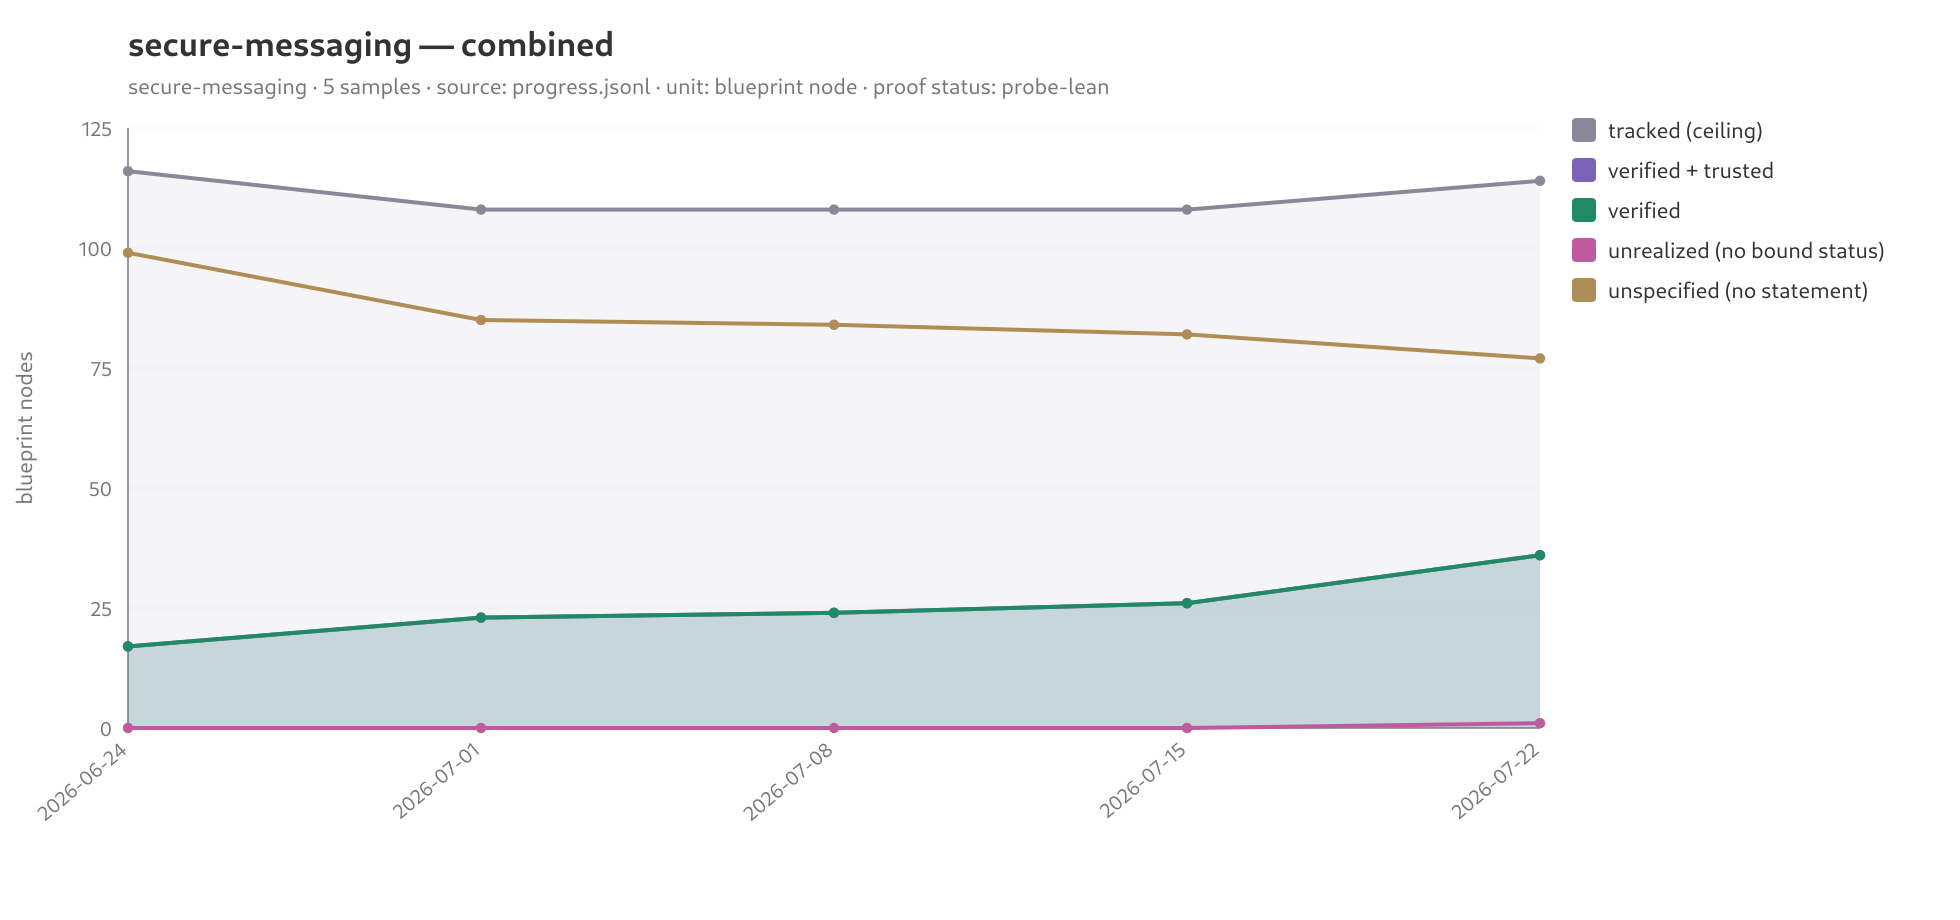
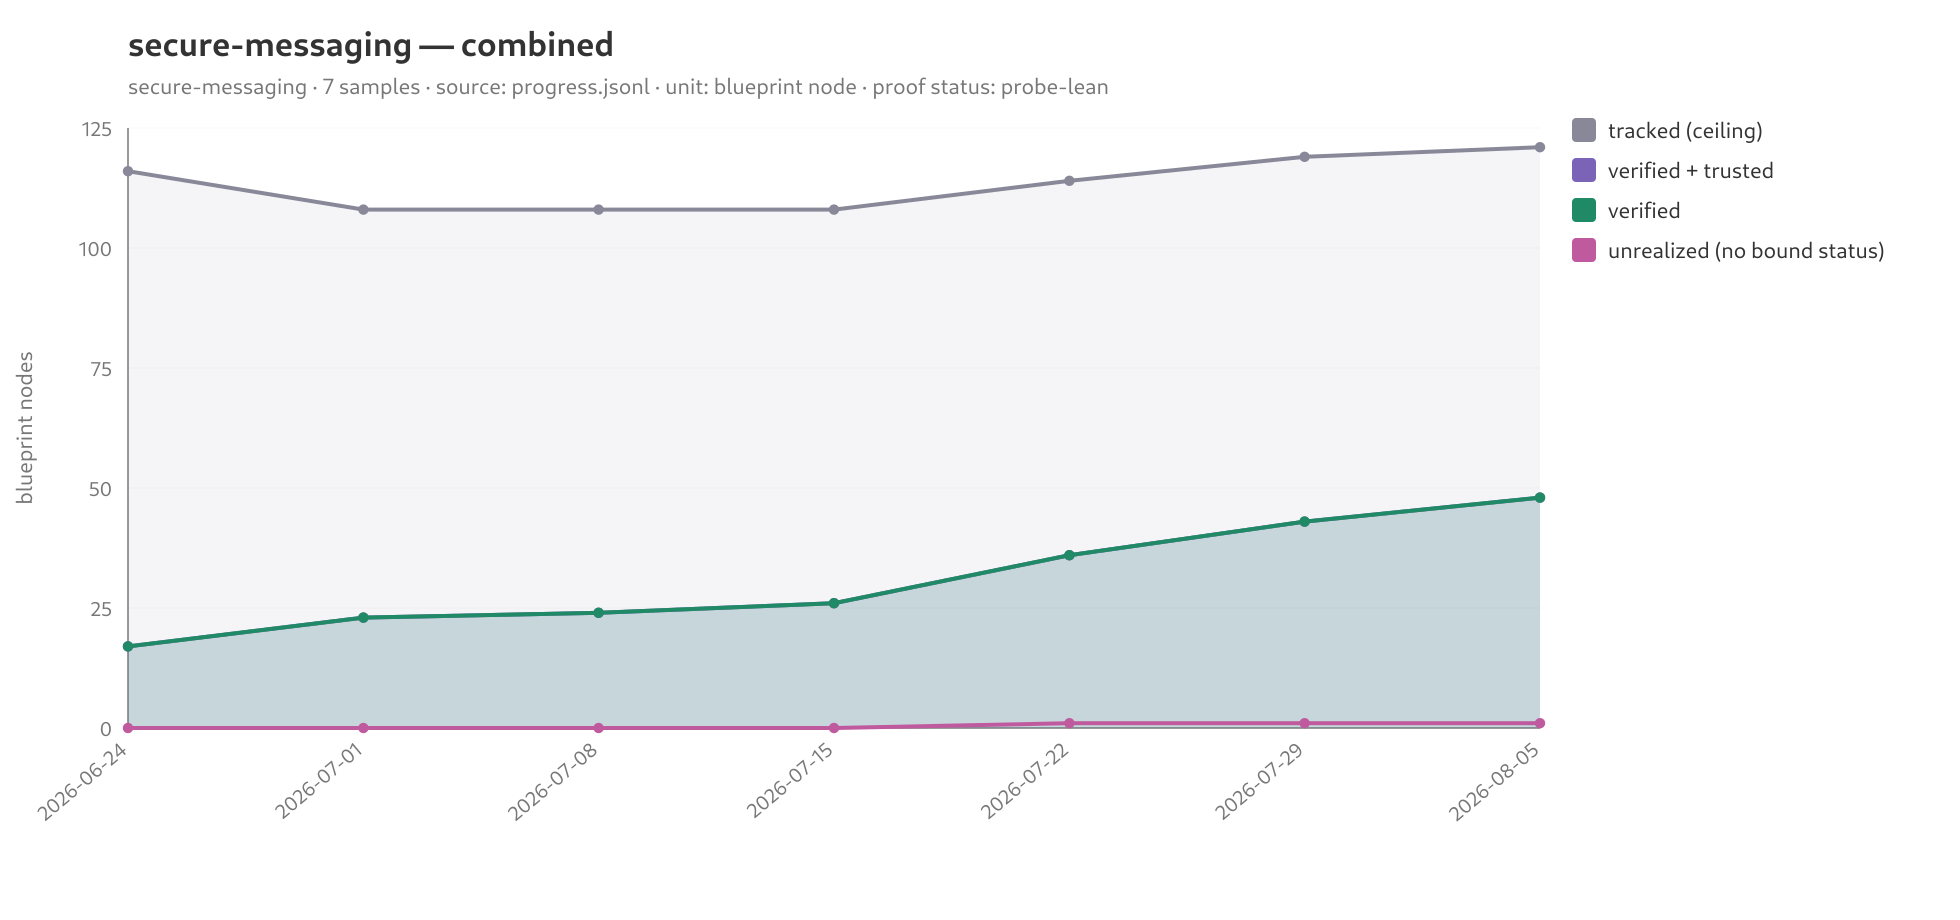
data(secure-messaging): weekly progress samples 2026-07-29 and 2026-08-05
Extend the leanblueprint burn-up series with the two commits since the
last sample (2026-07-22): 7af6862 and 300a69e. Definitions formalized
28->33->35, theorems proved 9->11->14. Regenerated burnup{,-combined}.

Also fix data/README.md: the secure-messaging series is weekly, not
monthly (the actual sample dates are Wednesday-anchored weekly), and add
a step-by-step update-progress.md runbook.

diff --git a/tools/verification-progress-history/data/secure-messaging/update-progress.md b/tools/verification-progress-history/data/secure-messaging/update-progress.md
@@ -1,0 +1,80 @@
+# Update secure-messaging progress + chart
+
+Run everything from the tool directory:
+
+```bash
+cd tools/verification-progress-history
+```
+
+Data lives in `data/secure-messaging/`. Last recorded sample: **2026-07-22**
+(`progress.jsonl`, 5 rows). Sampling re-runs the real verifier per commit, so it
+is slow (~10–13 min/commit here); plotting is free.
+
+The local checkout is `/home/lacra/git_repos/baif/secure-messaging` (used as the
+`repo` argument below). It is intentionally **not** recorded in the committed
+`data/README.md`: commit `4afe26e` scrubbed the absolute local path out of the
+snapshot because it leaked a home directory, so the committed reproducibility
+steps carry only the flags.
+
+The committed series is **weekly** (Wednesday-anchored: 2026-06-24 … 2026-07-22),
+so extend it with `--cadence weekly`. (Note: `data/README.md` says `--cadence
+monthly`; that is a stale doc — the actual data is weekly.)
+
+## Prerequisites (on PATH, pinned for the whole run)
+
+`elan`, `probe-leanblueprint`, and the `probe-lean-v<toolchain>` matching each
+sampled commit's `lean-toolchain` (probe-lean reads version-specific `.olean`s).
+If new commits bumped the Lean toolchain, that version must be present or the
+sample records `setup_failed`; add `--install-probe-lean` to auto-fetch it.
+
+## 1. Add new data points
+
+`--resume` upserts by commit SHA and skips anything already recorded, so a
+week with no new commit adds nothing:
+
+```bash
+python3 progress_history.py /home/lacra/git_repos/baif/secure-messaging \
+  --pipeline leanblueprint --cadence weekly \
+  --verso-render-cmd scripts/render-docs-site.sh \
+  --since 2026-07-22 --resume \
+  --work-clone /tmp/vph-secure-messaging \
+  --dep-cache-dir /tmp/vph-depcache \
+  --sample-timeout 3600
+```
+
+- `--dry-run` first to list the commits it would sample.
+- `--dep-cache-dir` snapshots the compiled dep build per (toolchain, manifest)
+  and restores it in seconds on later samples — keep it persistent to make
+  reruns cheap. A run crossing a toolchain change forces a full rebuild.
+- To refresh just the latest point instead of walking the cadence grid, drop
+  `--since/--resume` and pass `--commit HEAD` (repeatable; always re-runs).
+- `--retry-failed` (with `--resume`) redoes any past non-`ok` sample.
+
+`progress.jsonl` and `progress.csv` are rewritten in place.
+
+## 2. Regenerate the charts
+
+Free, no verifier. Reproduces the committed SVG/PNG from the JSONL:
+
+```bash
+# Two-panel (Definitions, Theorems)
+python3 plot_progress.py data/secure-messaging/progress.jsonl --png
+
+# Single combined panel (pooled nodes, probe-lean proof status)
+python3 plot_progress.py data/secure-messaging/progress.jsonl --combined --png
+```
+
+Writes `burnup.svg`/`.png` and `burnup-combined.svg`/`.png` alongside the JSONL.
+Add `--in-progress` (yellow) and `--unspecified` (white) to draw those frontiers.
+
+## 3. Commit
+
+```bash
+git add data/secure-messaging/
+git commit -m "data(secure-messaging): progress sample $(date -u +%F)"
+```
+
+Only `ok` samples are plotted; other statuses show as captioned gaps. See
+[`../../guides/history-burnup.md`](../../guides/history-burnup.md) and
+[`../../leanblueprint-metrics.md`](../../leanblueprint-metrics.md) for the metric
+definitions.

diff --git a/tools/verification-progress-history/data/README.md b/tools/verification-progress-history/data/README.md
@@ -31,7 +31,7 @@ history walk (see the run command in the [tool README](../README.md#run)). The
 | `dalek-verus/` | Verus | `progress_history.py --pipeline verus --since 2025-07-14` | Chart: `plot_progress.py dalek-verus/progress.jsonl`. Series: rerun sampler. |
 | `SparsePostQuantumRatchet-verify/` | Aeneas | `progress_history.py --pipeline aeneas --since 2026-03-13` | Chart: yes, from its `progress.jsonl`. Series: rerun sampler. |
 | `curve25519-dalek-lean-verify/` | Aeneas | `progress_history.py --pipeline aeneas --since 2026-03-11 --cadence monthly` | Chart: yes. Series: rerun sampler (floor: Lean >= v4.28.0-rc1 and `aeneas-config.yml`). |
-| `secure-messaging/` | leanblueprint | `progress_history.py --pipeline leanblueprint --since 2026-06-03 --cadence monthly` (plus `--verso-render-cmd`); `depgraph.*`/`insights.txt` from one commit's extract | Chart: yes. Graph/insights: need an extract (not committed). |
+| `secure-messaging/` | leanblueprint | `progress_history.py --pipeline leanblueprint --since 2026-06-03 --cadence weekly` (plus `--verso-render-cmd`); `depgraph.*`/`insights.txt` from one commit's extract | Chart: yes; step-by-step in [`secure-messaging/update-progress.md`](secure-messaging/update-progress.md). Graph/insights: need an extract (not committed). |
 | `kvac-model-from-probe-lean/` | lean | `progress_history.py --pipeline lean --cadence monthly` over KVAC-model | Chart: yes, including `--combined`. Series: rerun sampler. |
 | `kvac-model-blueprint-projected/` | leanblueprint (projected) | A one-off blueprint projection (`tool: projection`), not the sampler; see [`../leanblueprint-metrics.md`](../leanblueprint-metrics.md) | Chart: yes, from its `progress.jsonl`. |
 | `kvac-model/` | leanblueprint | `plot_depgraph.py` / `blueprint_insights.py` on KVAC's extract at commit `ab91ef60` | Graph/insights only. Need the extract (not committed) to regenerate. |
